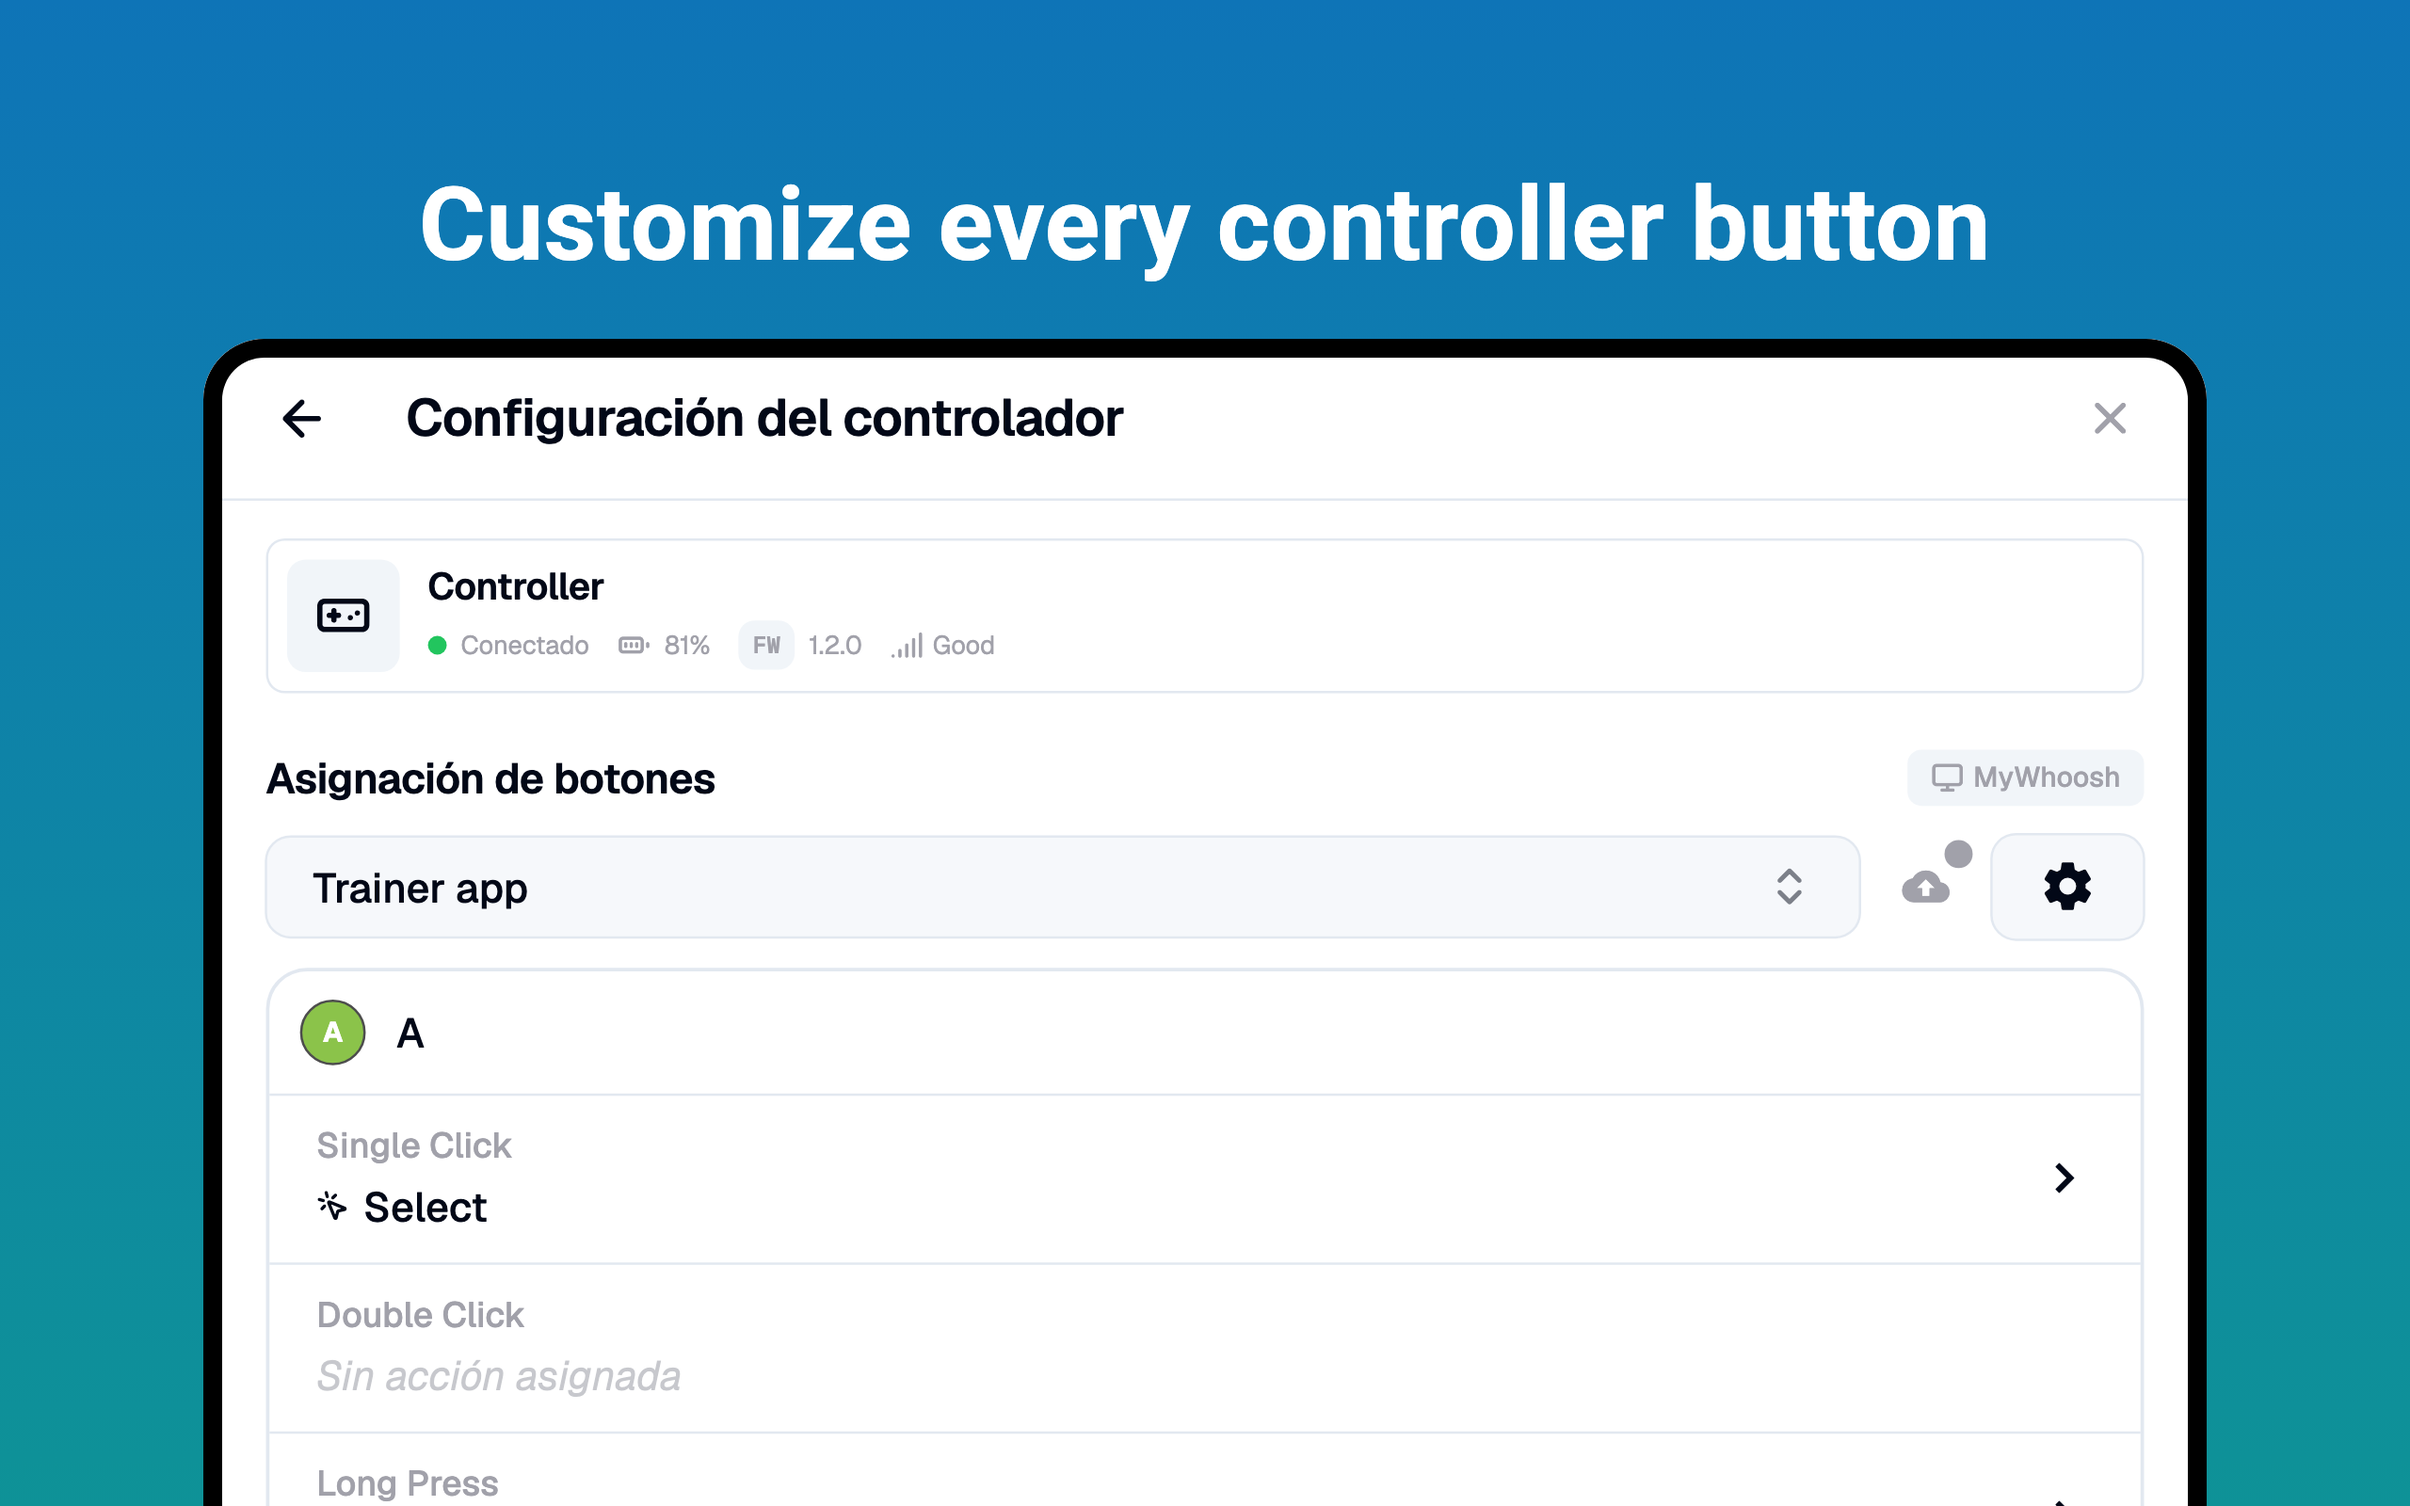
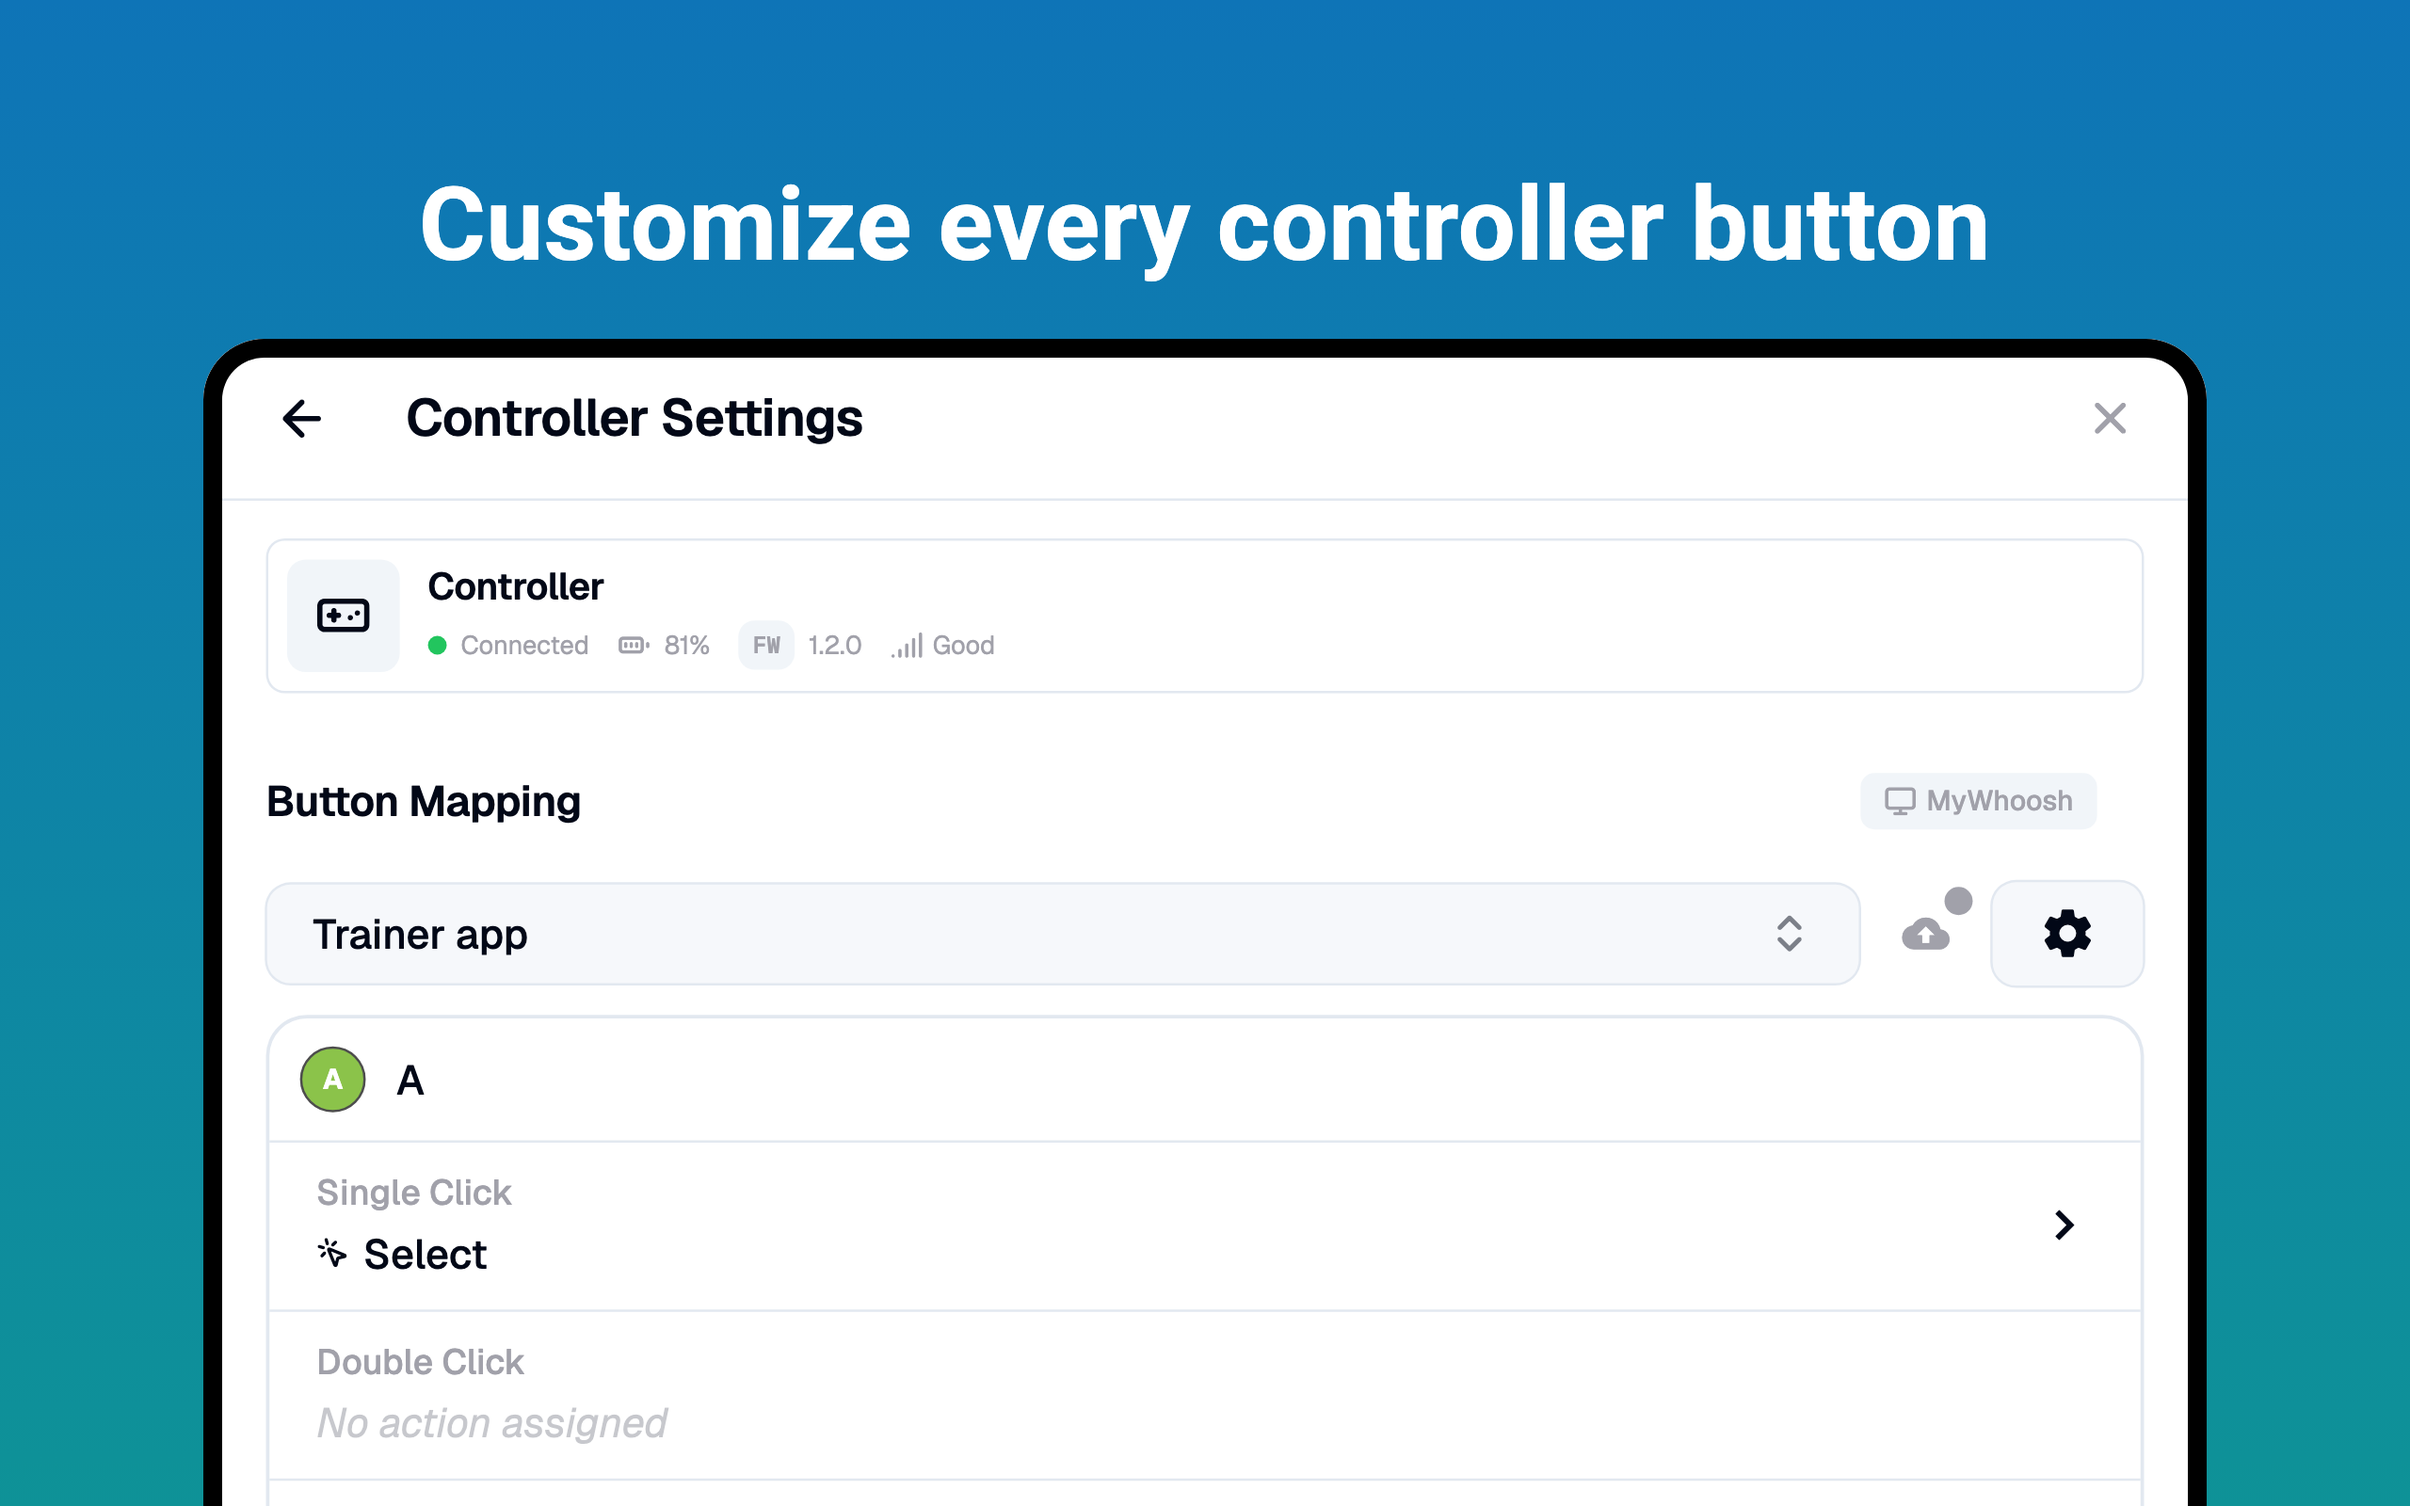
updated screenshots

Changed region(s): [[0.0938, 0.5, 0.3125, 1.0], [0.2188, 0.25, 0.4688, 0.3125], [0.7812, 0.5, 0.875, 0.6562]]

diff --git a/test/screenshot_test.dart b/test/screenshot_test.dart
@@ -138,7 +138,7 @@ Future<void> main() async {
                   required Widget child,
                 }) => CustomFrame(
                   platform: size.type,
-                  title: 'Control your trainer app using ANY controller',
+                  title: 'Control any trainer with ANY controller',
                   device: device,
                   child: child,
                 ),

diff --git a/lib/main.dart b/lib/main.dart
@@ -222,7 +222,7 @@ class _BikeControlAppState extends State<BikeControlApp> {
           secondary: () => Color(0xFF3A3A3A),
         ),
       ),
-      locale: screenshotMode ? Locale('es') : null,
+      locale: screenshotMode ? Locale('en') : null,
       theme: ThemeData(
         colorScheme: ColorSchemes.lightSlate.copyWith(
           mutedForeground: () => Color(0xFFA1A1AA),
